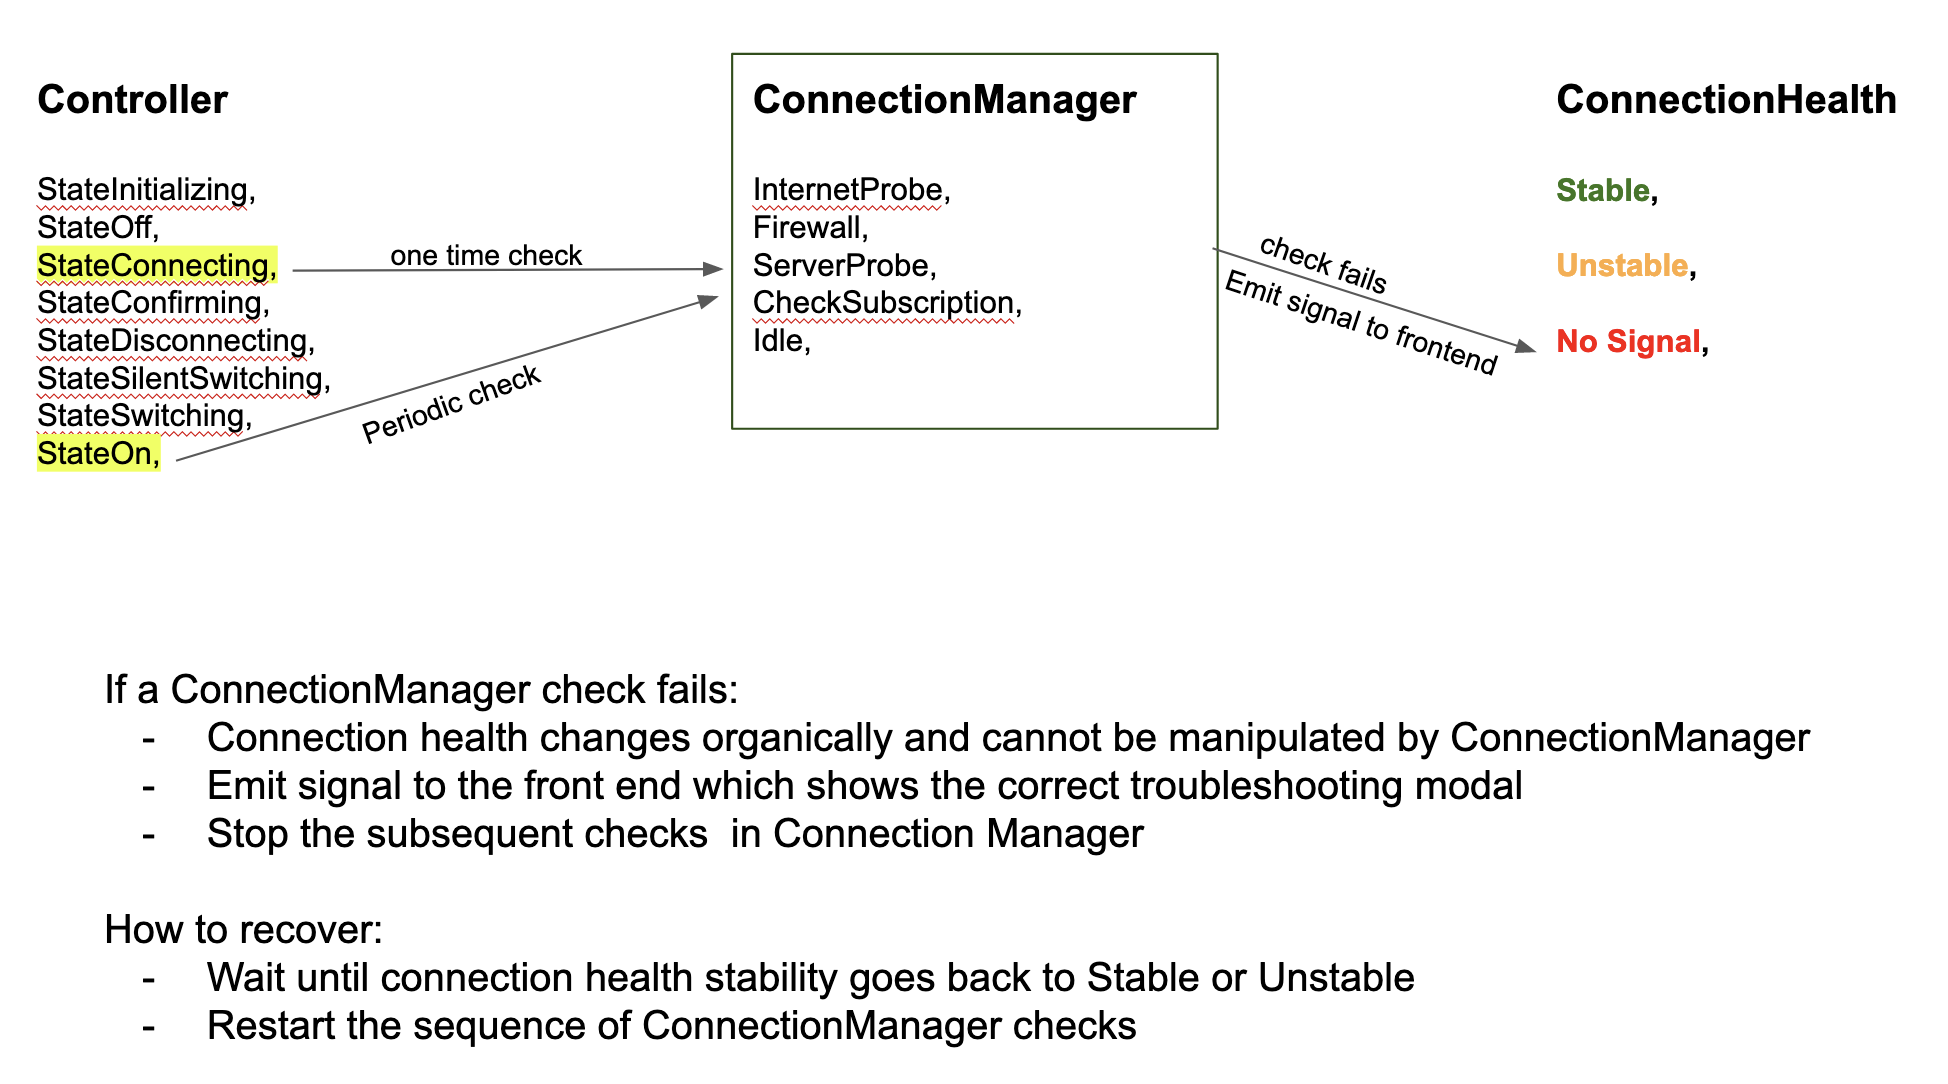
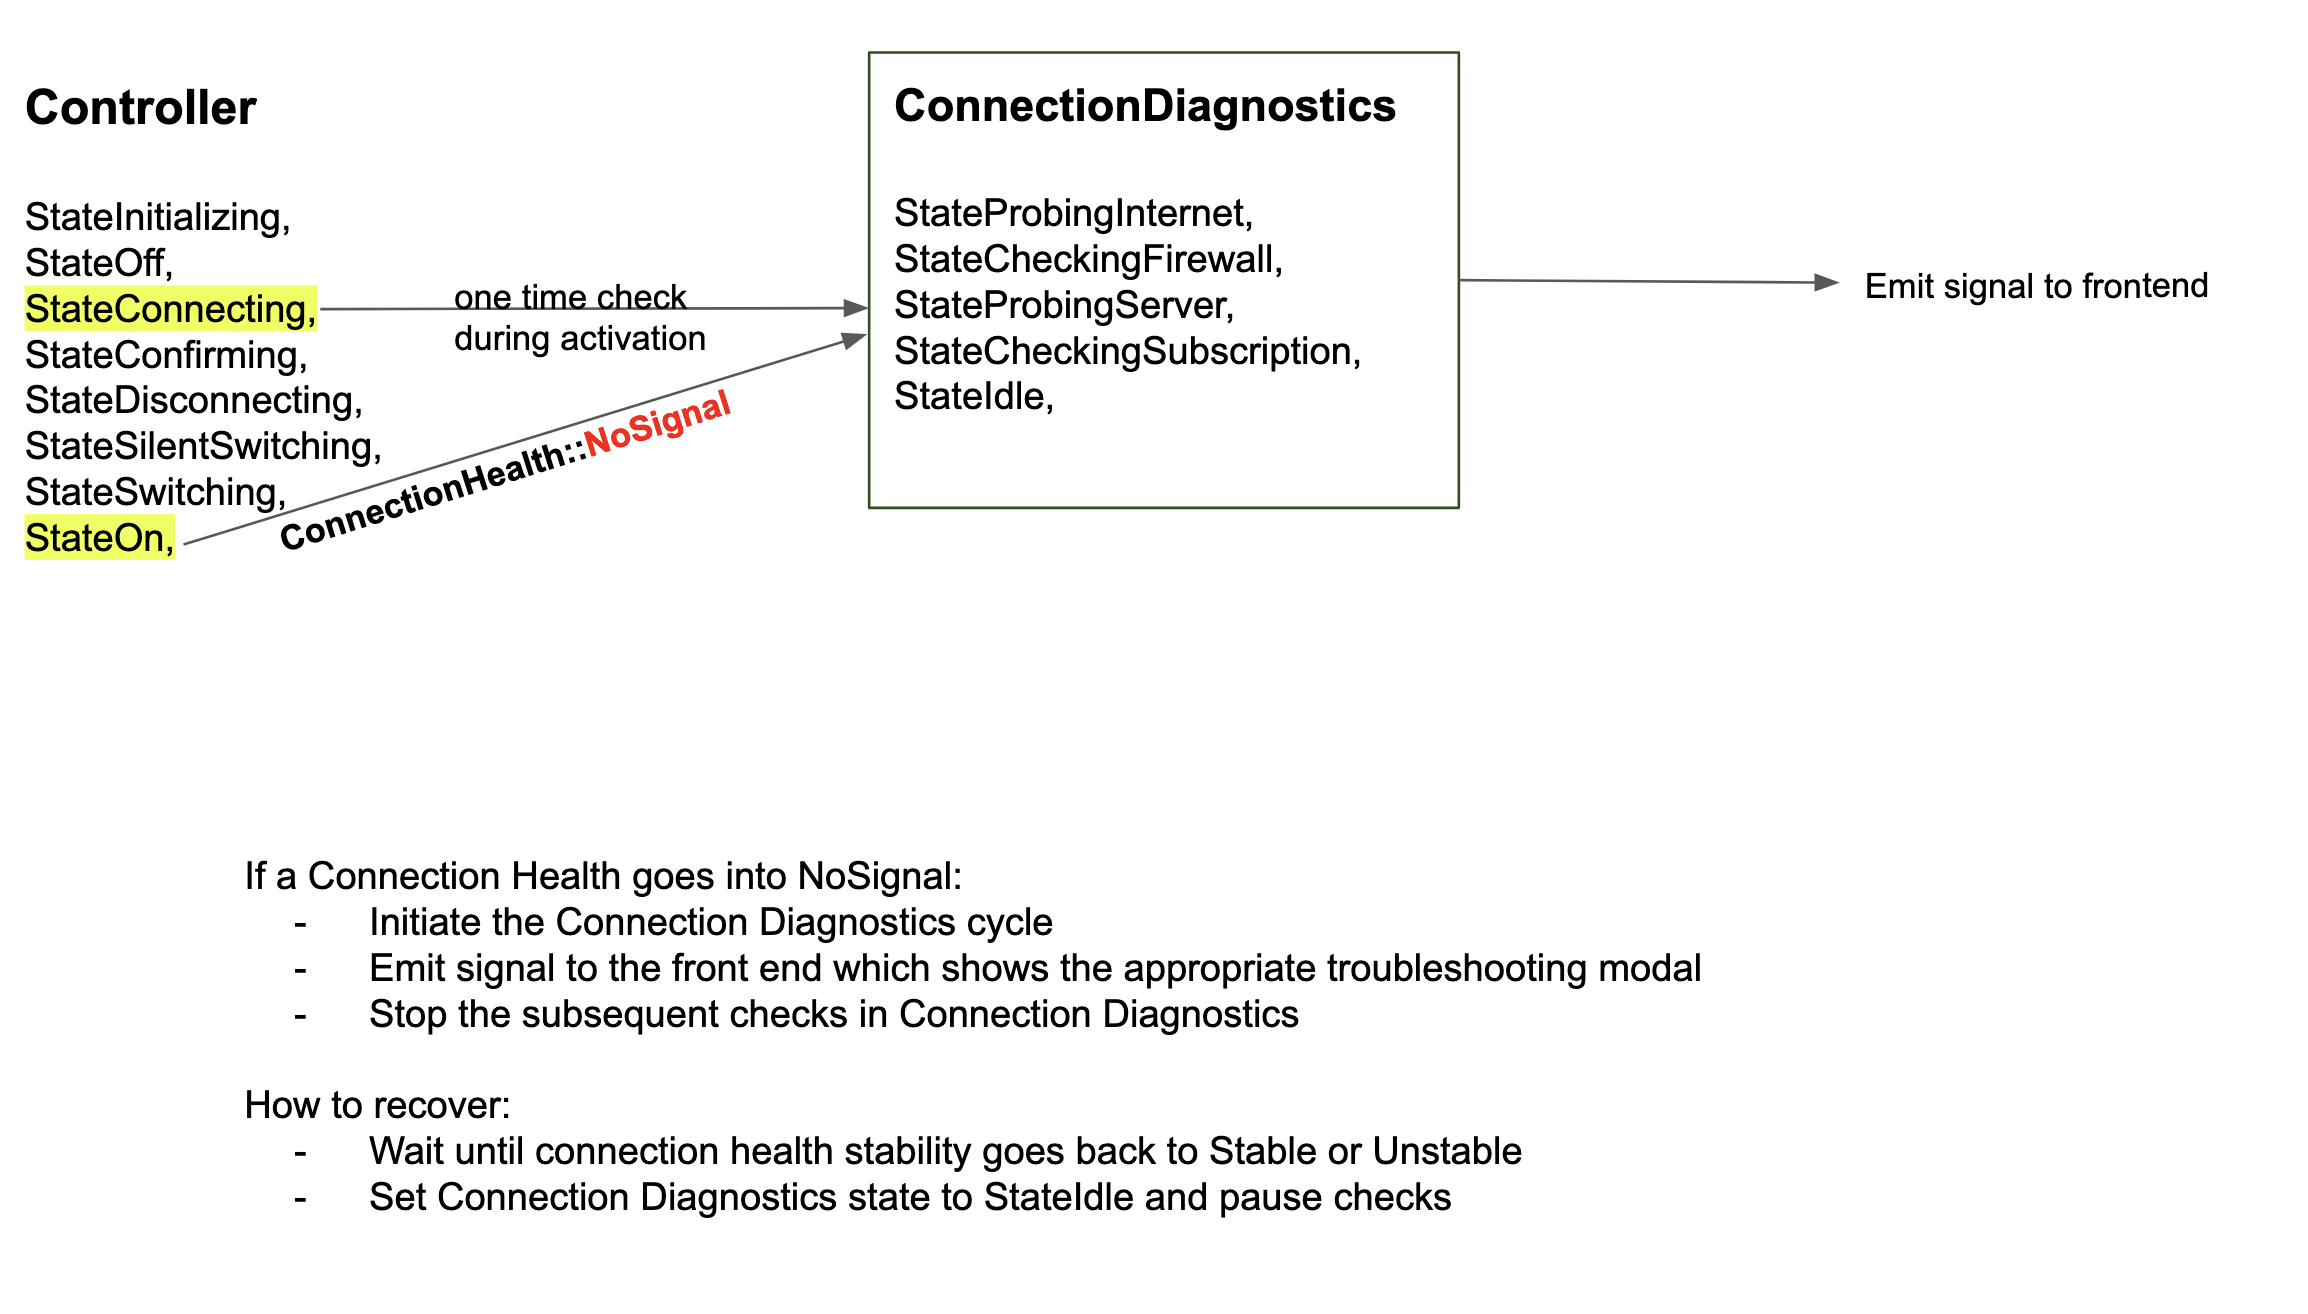
Include phase 2 in the doc and update the diagram

diff --git a/docs/rfcs/0004-rfc-connectiomanager.md b/docs/rfcs/0004-rfc-connectiomanager.md
@@ -7,74 +7,68 @@
 
 ## Summary
 
-The existing `ConnectionManager` component will handle all connectivity related checks once during VPN activation (`Controller::StateConnecting`) and then periodically once the VPN is already activated (`Controller::StateOn`); the controller will be the entity which manages the controller states that the client goes through such as `connecting` and `confirming` as we activate and deactivate the VPN to reflect those to the user what is happening behind the scene.
+The existing `ConnectionManager` class will be renamed to `ConnectionDiagnostics` and will be responsible for handling all connectivity related checks once during VPN activation (`Controller::StateConnecting`) and then periodically once the VPN is already activated (`Controller::StateOn`); the controller will be the entity which manages the controller states that the client goes through such as `connecting` and `confirming` as we activate and deactivate the VPN to reflect those to the user what is happening behind the scene.
 
 ## Motivation
 
-At present, the handling of VPN connectivity lacks consistency for users. There are instances when the VPN goes into No Signal due to a variety of connectivity-related issues, such as the network connection failing or the server location becoming unavailable. In these situations, users are often left without a clear explanation of what went wrong or guidance on how to troubleshoot and resolve the issue. They may encounter a background error message or lose signal without further information.
+At present, the handling of VPN connectivity lacks consistency for users. There are instances when the VPN goes into No Signal due to a variety of connectivity-related issues, such as the network connection failing or the server location becoming unavailable. In these situations, users are often left without a clear explanation of what went wrong or guidance on how to troubleshoot and resolve the issue. They may encounter a "background error occurred" banner or lose signal without further information.
 
-The objective with the Connection Manager is to address these issues by running probes on all potential causes and presenting the user with an appropriate modal detailing the root cause of their problem. This approach aims to enhance the user's understanding of the issue and provide them with actionable steps to rectify it.
+The objective with the Connection Diagnostics is to address these issues by running probes on all potential causes and presenting the user with an appropriate modal detailing the root cause of their problem. This approach aims to enhance the user's understanding of the issue and provide them with actionable steps to rectify it.
 
-To avoid further complicating the already complex logic of the controller, this document proposes encapsulating this new functionality within the Connection Manager. This object will interact with both the controller and connection health, serving as a dedicated entity for identifying connection problems and correctly communicating status changes to the UI, ultimately enhancing the user experience.
-
-This proposal describes Connection Manager behavior during activation. Subsequent proposal(s) will address the behavior of the Connection Manager during the lifespan of a connection.
+To avoid further complicating the already complex logic of the controller, this document proposes encapsulating this new functionality within the Connection Diagnostics. This object will interact with both the controller and connection health, serving as a dedicated entity for identifying connection problems and correctly communicating status changes to the UI, ultimately enhancing the user experience.
 
 ## Proposed Solution
 
-We will introduce a new object, the Connection Manager, which will be responsible for managing all probes. These probes are stored as distinct states within an enumeration class, `ConnectionManager::State`. The Connection Manager will sequentially cycle through each of these states in a systematic order, only proceeding to the next state if the current probe is successful. 
+The Connection Diagnostics will be responsible for managing all probes. These probes are stored as distinct states within an enumeration class, `ConnectionDiagnostics::State`. The Connection Diagnostics will sequentially cycle through each of these states in a systematic order, only proceeding to the next state if the current probe is successful. 
 
-In the event of a probe failure, the Connection Manager will emit a signal to the frontend. This will trigger a modal to be displayed to the user, providing an explanation of the issue and suggesting potential solutions. Upon encountering a failed probe, the progression through the remaining probes is immediately halted. Once the issue has been resolved, the cycle of probes commences anew. If there are no ongoing probes, the Connection Manager will enter an Idle state.
+In the event of a probe failure, the Connection Diagnostics will emit a signal to the frontend. This will trigger a modal to be displayed to the user, providing an explanation of the issue and suggesting potential solutions. Upon encountering a failed probe, the progression through the remaining probes is immediately halted and the Connection Diagnostics will enter the Idle state.
 
-The Connection Health, an existing component of our codebase, is tasked with sending periodic pings and determining the stability of the VPN based on the responses received (see `ConnectionHealth::healthCheckup()`). It classifies the VPN stability as `Stable`, `Unstable` (some missing responses), or `NoSignal` (no responses received). When the VPN experiences issues with network connectivity or server availability, it naturally transitions into the No Signal state and, ideally, recovers once the issue is resolved. We can leverage this logic to recover from a probe failure within the Connection Manager.
+The Connection Health, an existing component of our codebase, is tasked with sending periodic pings and determining the stability of the VPN based on the responses received (see `ConnectionHealth::healthCheckup()`). It classifies the VPN stability as `Stable`, `Unstable` (some missing responses), or `NoSignal` (no responses received). When the VPN experiences issues with network connectivity or server availability, it naturally transitions into the No Signal state and, ideally, recovers once the issue is resolved. We can leverage this logic to recover from a probe failure within the Connection Diagnostics.
 
 > For specific details about how these failures are handled and communicated with the user, please refer to this [Figma document](https://www.figma.com/file/GZKigVZbnCisMJNU3Hc9xM/Connection-error-messaging?type=design&node-id=26-215&mode=design&t=kfYnUKuXQ9nsGDRR-0).
 
 ## Implementation Plan
 
 ```c++
-enum ConnectionManagerStates {
-  StateInternetProbe,
-  StateFirewall,
-  StateServerProbe,
-  StateCheckSubscription,
+enum ConnectionDiagnosticsStates {
+  StateProbingInternet,
+  StateCheckingFirewall,
+  StateProbingServerLocation,
+  StateCheckingSubscription,
   StateIdle,
 }
 ```
-### Upon VPN Activation (`StateOff` to `StateConnecting`)
-Perform a single cycle going through all the Connection Manager probes.
+
+### Upon VPN Activation (`StateOff` to `StateConnecting`) - Phase 1
+Perform a single cycle going through all the Connection Diagnostics probes.
 - If a probe fails:
   - Set Controller to `StateOff`
   - Stop subsequent probes from running
   - emit a signal to the frontend communicating which probe failed
+  - VPN will remain in `StateOff`
+  - Connection Diagnostics will go into `StateIdle`
 - If all probes pass:
   - Activate VPN (Controller `StateOn`)
+  - Connection Diagnostics will go into `StateIdle`
 
-### VPN is already active (`StateOn`)
-Perform periodic checks cycling through all the Connection Manager probes.
+### VPN is already active (`StateOn`) - Phase 2
+If the VPN is already active and Connection Health stability goes into no signal, initiate a diagnostics cycle to perform a set of checks to identify the underlying cause.
+
 - If a probe fails:
   - Controller continues to stay in `StateOn`. We will __never__ toggle the VPN off without the user explicitly doing so themselves
-  - We will __not__ manipulate the Connection Health stability based on Connection Manager probes
-  - Stop subsequent probes from running
+  - We will __not__ manipulate the Connection Health stability based on Connection Diagnostics probes
+  - Stop subsequent Connection Diagnostics probes from running
   - emit a signal to the frontend communicating which probe failed
-- If all probes pass:
-  - Do nothing. VPN stays on and stable
 
-> Note: The second scenario where a check fails when the VPN is already active still needs some more thinking. There will be a follow up design doc on how we will approach that later on.
+> Note: In both phase 1 and phase 2 if user tries to interrupt connecting or deactivate the VPN during a connection diagnostics check, we will cancel the ongoing checks and proceed with deactivation. The connection diagnostics will no longer perform any checks until the users attempts to reactivate the VPN.
 
-### How to recover after a failed probe
-- If VPN is not in `StateOn` yet:
-  - Connection Manager will emit signal about the failed probe to notify the frontend
-- If VPN is in `StateOn`:  
-  - Wait until Connection Health stability goes back to Stable or Unstable
-  - Restart the sequence of ConnectionManager checks
-
-![Diagram to explain how Controller, Connection Manager and Connection Health states interact](./images/CM_diagram.png)
+![Diagram to explain how Controller, Connection Diagnostics and Connection Health states interact](./images/CM_diagram.png)
 
 ## Metrics and Measurements
 
 This change also means that prior to the activation of the VPN, there are multiple checks and probes that need to succeed; this will take some time (hopefully no more than a couple of seconds).
 
-To confidently determine that these checks do not delay the VPN activation by an unacceptable amount TBD, we need to measure the duration of the _time elapsed from toggling on the VPN to activation_. We are interested in the VPN activation duration because it delays the VPN being toggled on. This also allows us to keep track of the duration of each operation which allows us to continually monitor the system health and identify any slow downs and changes.
+To confidently determine that these checks do not delay the VPN activation by an unacceptable amount TBD, we need to measure the duration of the _time elapsed from toggling on the VPN to activation_. We are interested in the VPN activation duration because it delays the VPN being toggled on. This also allows us to keep track of the duration of each operation which allows us to continually monitor the system health and identify any slow downs and changes. Any drastic change in the delay duration prior to activation will be flagged by both the metrics as well as regular QA testing.
 
 In addition to measurements pertaining to the duration, we are also interested in quantifying the probe success to failure rate for each scenario.
 
